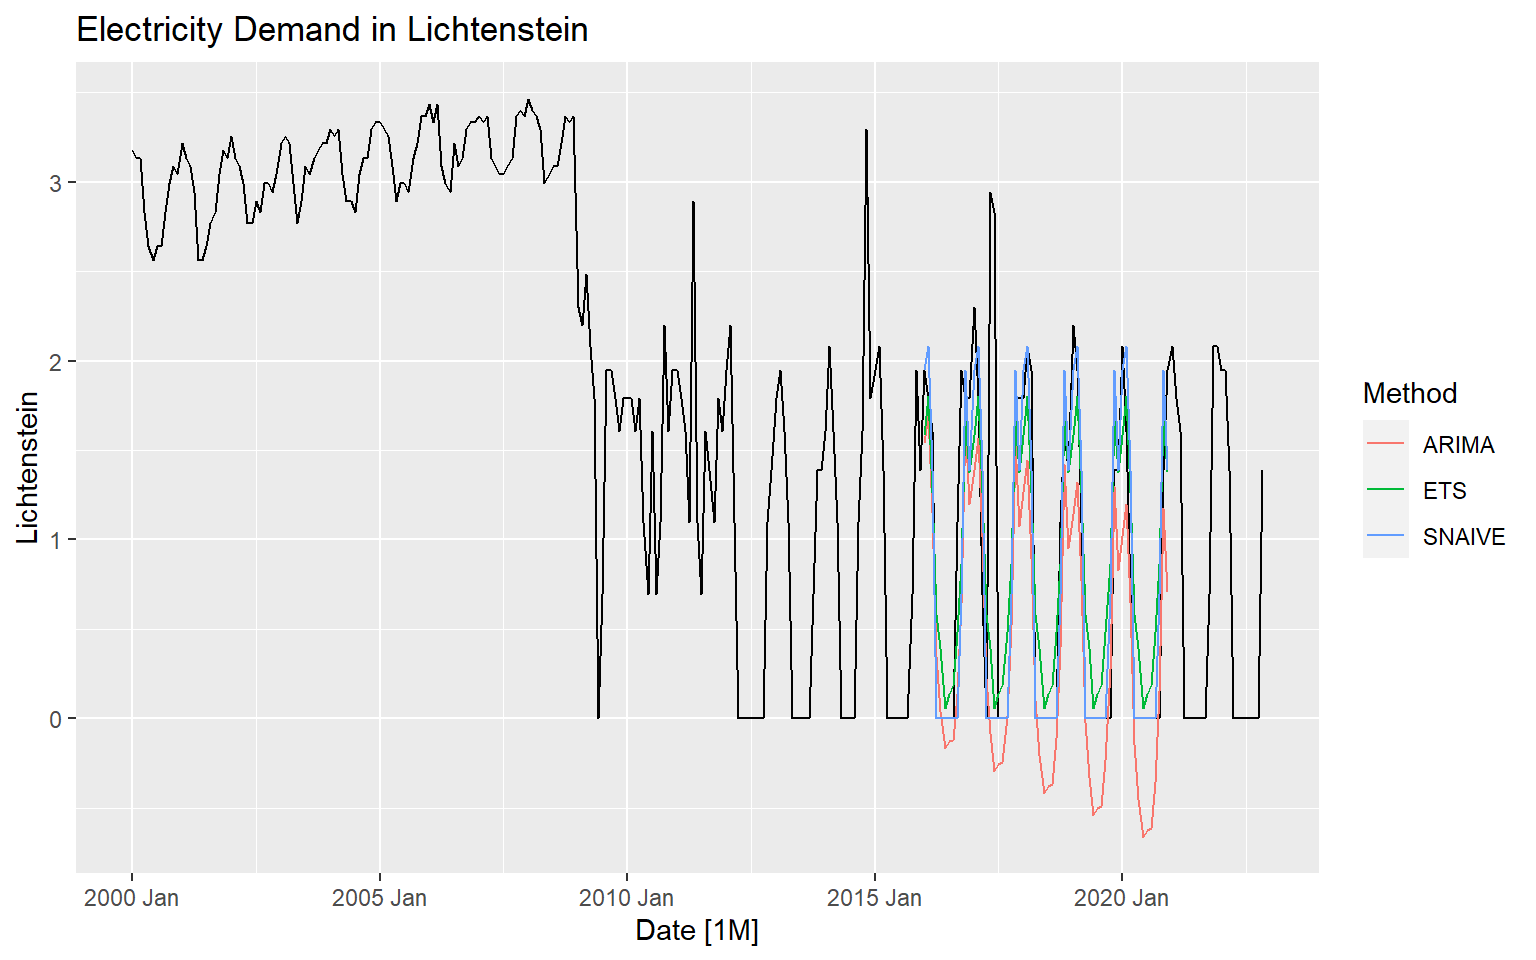
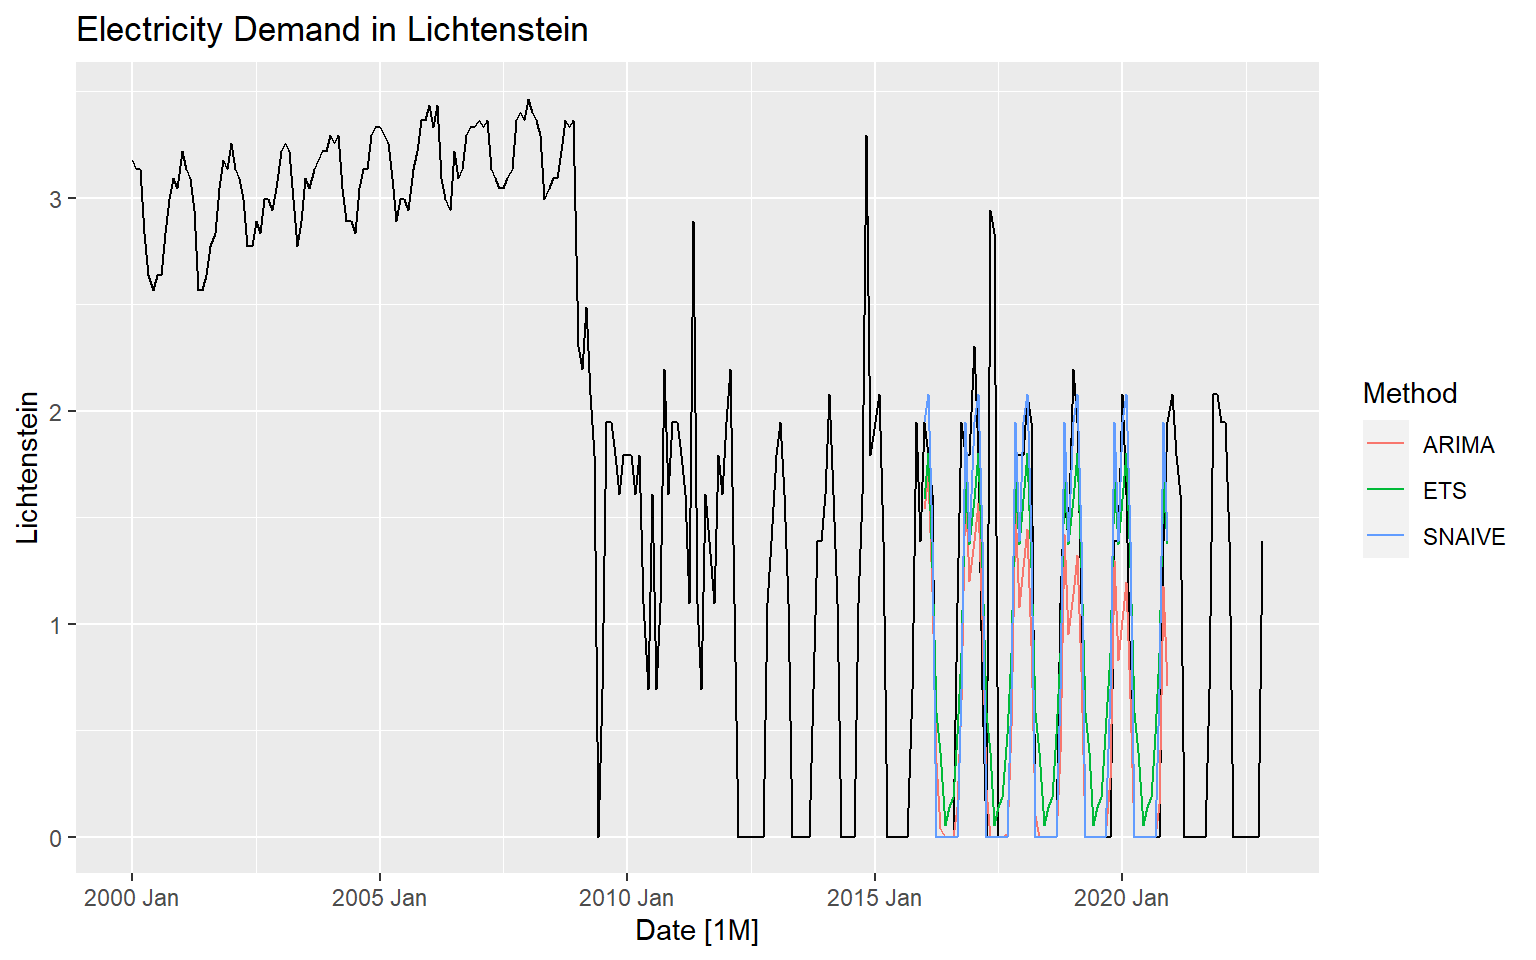
blabla

diff --git a/main.html b/main.html
@@ -201,9 +201,6 @@
     <h2><a href="#content">Forecasting Project 1 - Group 7</a></h2>
     <div id="toc">
       <ul>
-      <li><a href="#things-that-need-to-be-done"
-      id="toc-things-that-need-to-be-done">THINGS THAT NEED TO BE
-      DONE</a></li>
       <li><a href="#introduction" id="toc-introduction">1.
       Introduction</a></li>
       <li><a href="#data-processing" id="toc-data-processing">2. Data
@@ -288,13 +285,6 @@ Khryst Amina Ivan
    
 <!-- Don't indent these lines or it will mess pre blocks indentation --> 
 <div id="main">
-<div id="things-that-need-to-be-done" class="section level1">
-<h1>THINGS THAT NEED TO BE DONE</h1>
-<ul>
-<li>In the forecast we show only the final model chosen, why show
-lichtenstein 5.5.1 + 5.5.2?</li>
-</ul>
-</div>
 <div id="introduction" class="section level1">
 <h1>1. Introduction</h1>
 <p>This project is a forecasting analysis for the electricity exports
@@ -305,8 +295,8 @@ performance metrics) and have created forecasts and CI’s for each
 country as well as the total. In the final report you are now reading,
 only the most important information is included, and whatever was deemed
 unnecessary for the report you can find in our code files/appendix.</p>
-<p>The forecasting models used in this project are S-Naive, S-ARIMA, ETS
-and a variant of ARIMA piece-wise for a specific country.</p>
+<p>The forecasting models used in this project are S-Naive, S-ARIMA and
+ETS.</p>
 </div>
 <div id="data-processing" class="section level1">
 <h1>2. Data Processing</h1>
@@ -333,9 +323,9 @@ amplitude of the seasonality seemed to increase towards the most recent
 years. Based on this, we decided to do a seasonal/trend decomposition
 for each country to further analyze this.</p>
 <p>Furthermore, for Lichtenstein, we noticed a huge drop in exports
-after 2008-2009, which indicated that we should try different models
-like the piece-wise model to separate the differences in trend over
-time.</p>
+after 2008-2009, which can not be explain by the historical data. In
+order to handle it, we use different approachs such as splitting the
+data or implementing piece wise model.</p>
 </div>
 <div id="seasonal-sub-series-plots" class="section level2">
 <h2>3.2 Seasonal Sub-series plots</h2>
@@ -457,9 +447,10 @@ accurately.</p>
 <div id="austria" class="section level3">
 <h3><strong>Austria</strong></h3>
 <p>Austria trend undergoes a huge increase during the period 2018-2021,
-follow by a drastic drop which are not explainable by historical data
-and strongly suggest that it is affected by a covariate. Seasonality is
-constant and stable over time during the whole period.</p>
+follow by a significant drop which are not explainable by historical
+data and strongly suggest that it is affected by a covariate.
+Seasonality is constant and stable over time during the whole
+period.</p>
 <div class="sourceCode" id="cb6"><pre class="sourceCode r"><code class="sourceCode r"><span id="cb6-1"><a href="#cb6-1" tabindex="-1"></a>data_elec <span class="sc">%&gt;%</span></span>
 <span id="cb6-2"><a href="#cb6-2" tabindex="-1"></a>  <span class="fu">model</span>(<span class="fu">STL</span>(Austria <span class="sc">~</span> <span class="fu">trend</span>(<span class="at">window =</span> <span class="dv">7</span>) <span class="sc">+</span> <span class="fu">season</span>(<span class="at">window =</span> <span class="st">&quot;periodic&quot;</span>),</span>
 <span id="cb6-3"><a href="#cb6-3" tabindex="-1"></a>    <span class="at">robust =</span> <span class="cn">TRUE</span>)) <span class="sc">%&gt;%</span></span>
@@ -514,7 +505,7 @@ since the p-value is larger than our significance level of 5%, we have
 to difference or log the Lichtenstein data before using some models.</p>
 <div id="germany-1" class="section level3">
 <h3><strong>Germany</strong></h3>
-<p>The test statistic was -6.0768. The p-value of the test was 0.01,
+<p>The test statistic was -6.3865. The p-value of the test was 0.01,
 which indicates strong evidence to reject the null hypothesis of
 non-stationarity at <code>alpha = 0.05</code>. Thus Germany data is a
 stationary time series.</p>
@@ -530,8 +521,8 @@ stationary time series.</p>
 </div>
 <div id="france-1" class="section level3">
 <h3><strong>France</strong></h3>
-<p>The test statistic was -4.6123 The p-value of the test was 0.01,
-which indicates strong evidence to reject the null hypothesis of
+<p>The test statistic was -5.671 The p-value of the test was 0.01, which
+indicates strong evidence to reject the null hypothesis of
 non-stationarity at <code>alpha = 0.05</code>. Thus France data is a
 stationary time series.</p>
 <pre><code>## 
@@ -543,7 +534,7 @@ stationary time series.</p>
 </div>
 <div id="italy-1" class="section level3">
 <h3><strong>Italy</strong></h3>
-<p>The test statistic was -6.8897 The p-value of the test was 0.01. Thus
+<p>The test statistic was -6.1852 The p-value of the test was 0.01. Thus
 Italy data is a stationary time series.</p>
 <pre><code>## 
 ##  Augmented Dickey-Fuller Test
@@ -554,7 +545,7 @@ Italy data is a stationary time series.</p>
 </div>
 <div id="austria-1" class="section level3">
 <h3><strong>Austria</strong></h3>
-<p>The test statistic was -3.7273 The p-value of the test was 0.02443,
+<p>The test statistic was -3.6792 The p-value of the test was 0.02595,
 which indicates strong evidence to reject the null hypothesis of
 non-stationarity at <code>alpha = 0.05</code>. Thus Austria data is a
 stationary time series.</p>
@@ -567,8 +558,8 @@ stationary time series.</p>
 </div>
 <div id="lichtenstein-1" class="section level3">
 <h3><strong>Lichtenstein</strong></h3>
-<p>The test statistic was -6.5052 The p-value of the test was 0.01. Thus
-Lichtenstein data is a stationary time series.</p>
+<p>The test statistic was -3.0063. The p-value of the test was 0.1521.
+Thus Lichtenstein data is a NON stationary time series.</p>
 <pre><code>## 
 ##  Augmented Dickey-Fuller Test
 ## 
@@ -578,8 +569,8 @@ Lichtenstein data is a stationary time series.</p>
 </div>
 <div id="total-1" class="section level3">
 <h3><strong>Total</strong></h3>
-<p>Finally, The test statistic was -4.0009 The p-value of the test was
-0.01103. Thus Total data is a stationary time series.</p>
+<p>Finally, The test statistic was -4.8658 The p-value of the test was
+0.01. Thus Total data is a stationary time series.</p>
 <pre><code>## 
 ##  Augmented Dickey-Fuller Test
 ## 
@@ -1597,13 +1588,12 @@ time period that we have train our data, but it is important to note
 that it has some limitations. Indeed, it assumes that historical
 patterns will repeat exactly in the future, which may not always hold.
 The S-Naive method may not account for underlying factors or trends that
-could impact future outcomes. Therefore, there is an increased risk of
-inaccurate forecasts if the method is blindly applied without
-considering other relevant factors. ETS could be great models based on a
-trade off between forecasting error and complexity of the model. ETS
-model has the third lowest RMSE and second lowest MAE which makes him a
-good candidate. In order to select a model, we can analyse residuals of
-those models</p>
+could impact future outcomes. Thus, there is an increased risk of
+inaccurate forecasts if the method is blindly applied. ETS could be
+great models based on a trade off between forecasting error and model
+complexity. ETS model has the second lowest RMSE and MAE which makes him
+a good candidate. In order to select a model, we can analyse residuals
+of those models</p>
 <table class=" lightable-paper" style="font-family: &quot;Arial Narrow&quot;, arial, helvetica, sans-serif; width: auto !important; margin-left: auto; margin-right: auto;">
 <thead>
 <tr>
@@ -1738,20 +1728,20 @@ NaN
 </tr>
 </tbody>
 </table>
-<div class="sourceCode" id="cb60"><pre class="sourceCode r"><code class="sourceCode r"><span id="cb60-1"><a href="#cb60-1" tabindex="-1"></a><span class="co">#report(data_fit_Licht_e)</span></span>
-<span id="cb60-2"><a href="#cb60-2" tabindex="-1"></a><span class="co">#report(data_fit_Licht_n)</span></span></code></pre></div>
+<div class="sourceCode" id="cb60"><pre class="sourceCode r"><code class="sourceCode r"><span id="cb60-1"><a href="#cb60-1" tabindex="-1"></a><span class="co">#report(data_fit_Licht_n)</span></span>
+<span id="cb60-2"><a href="#cb60-2" tabindex="-1"></a><span class="co">#report(data_fit_Licht_e)</span></span></code></pre></div>
 </div>
 <div id="residuals-4" class="section level3">
 <h3><strong>Residuals</strong></h3>
 <p>It is interesting to examine any outliers or extreme values in the
 residuals. The ACF analysis for SNaive shows Positive correlations
-between the ts and its lags. In opposite ETS model shows that there’s no
-correlation between thoses values. Thus, each observation in the ts can
-be considered unrelated to the previous values. Consequently,
-Lichtenstein ts might need covariate to forecast and analyse it
-adequately. Concerning the residual, it should ideally appear random, in
-our case residuals are chinked around zero for both models (SNaive &amp;
-ETS), thus those might shows autocorrelation.</p>
+between the ts and its lags. The result shows that there’s correlation
+between thoses values. Thus, each observation in the ts can be
+considered related to the previous values. Consequently, Lichtenstein ts
+might need covariate to forecast and analyse it adequately. Concerning
+the residual, it should ideally appear random, in our case residuals are
+chinked around zero for SNaive model, thus those might shows
+autocorrelation.</p>
 <p><img src="main_files/figure-html/unnamed-chunk-47-1.png" width="768" /></p>
 </div>
 </div>
@@ -3518,6 +3508,9 @@ Total
 <p>Below is the final table containing <code>Month,</code> point
 forecast <code>PF,</code> 90% lower and upper confidence levels interval
 forecast <code>CI,</code> and <code>Country.</code></p>
+<p>For Lichtenstein, since we logged the data to make the forecasts
+earlier, we have to use its inverse function (exponent) to bring the
+values back to their original magnitude.</p>
 <div class="sourceCode" id="cb101"><pre
 class="sourceCode r"><code class="sourceCode r"><span id="cb101-1"><a href="#cb101-1" tabindex="-1"></a>final_fc <span class="ot">&lt;-</span> <span class="fu">bind_rows</span>(forecast_table_germany_e, forecast_table_italy_a, forecast_table_france_e, forecast_table_austria_e,forecast_table_Lichtenstein_n, forecast_table_total_a)</span>
 <span id="cb101-2"><a href="#cb101-2" tabindex="-1"></a></span>
@@ -3538,25 +3531,45 @@ class="sourceCode r"><code class="sourceCode r"><span id="cb101-1"><a href="#cb1
 <span id="cb101-17"><a href="#cb101-17" tabindex="-1"></a>upper_bound <span class="ot">&lt;-</span> <span class="fu">as.numeric</span>(upper_str_fc)</span>
 <span id="cb101-18"><a href="#cb101-18" tabindex="-1"></a></span>
 <span id="cb101-19"><a href="#cb101-19" tabindex="-1"></a><span class="co"># Creating the data frame</span></span>
-<span id="cb101-20"><a href="#cb101-20" tabindex="-1"></a>Correct_final_fc <span class="ot">&lt;-</span> <span class="fu">data.frame</span>(<span class="st">&quot;Coutry&quot;</span> <span class="ot">=</span> final_fc<span class="sc">$</span>Country,</span>
+<span id="cb101-20"><a href="#cb101-20" tabindex="-1"></a>Correct_final_fc <span class="ot">&lt;-</span> <span class="fu">data.frame</span>(<span class="st">&quot;Country&quot;</span> <span class="ot">=</span> final_fc<span class="sc">$</span>Country,</span>
 <span id="cb101-21"><a href="#cb101-21" tabindex="-1"></a>                             <span class="st">&quot;Month&quot;</span> <span class="ot">=</span> final_fc<span class="sc">$</span>Month,</span>
 <span id="cb101-22"><a href="#cb101-22" tabindex="-1"></a>                             <span class="st">&quot;Point Forecast&quot;</span> <span class="ot">=</span> final_fc<span class="sc">$</span>PF,</span>
 <span id="cb101-23"><a href="#cb101-23" tabindex="-1"></a>                             <span class="st">&quot;Lower Interval&quot;</span> <span class="ot">=</span> lower_bound,</span>
 <span id="cb101-24"><a href="#cb101-24" tabindex="-1"></a>                             <span class="st">&quot;Upper Interval&quot;</span> <span class="ot">=</span> upper_bound)</span>
 <span id="cb101-25"><a href="#cb101-25" tabindex="-1"></a></span>
-<span id="cb101-26"><a href="#cb101-26" tabindex="-1"></a><span class="co"># Printing the adjusted output</span></span>
-<span id="cb101-27"><a href="#cb101-27" tabindex="-1"></a><span class="co">#print(Correct_final_fc)</span></span>
-<span id="cb101-28"><a href="#cb101-28" tabindex="-1"></a></span>
-<span id="cb101-29"><a href="#cb101-29" tabindex="-1"></a><span class="fu">kbl</span>(<span class="fu">cbind</span>(Correct_final_fc)) <span class="sc">%&gt;%</span></span>
-<span id="cb101-30"><a href="#cb101-30" tabindex="-1"></a>  <span class="fu">kable_paper</span>() <span class="sc">%&gt;%</span></span>
-<span id="cb101-31"><a href="#cb101-31" tabindex="-1"></a>  <span class="fu">scroll_box</span>(<span class="at">width =</span> <span class="st">&quot;100%&quot;</span>, <span class="at">height =</span> <span class="st">&quot;500px&quot;</span>)</span></code></pre></div>
+<span id="cb101-26"><a href="#cb101-26" tabindex="-1"></a><span class="co">#Correct_final_fc &lt;- Correct_final_fc %&gt;%</span></span>
+<span id="cb101-27"><a href="#cb101-27" tabindex="-1"></a><span class="co">#  mutate(</span></span>
+<span id="cb101-28"><a href="#cb101-28" tabindex="-1"></a><span class="co">#    Point.Forecast = ifelse(Country == &quot;Lichtenstein&quot;, exp(Point.Forecast), Point.Forecast),</span></span>
+<span id="cb101-29"><a href="#cb101-29" tabindex="-1"></a><span class="co">#    Lower.Interval = ifelse(Country == &quot;Lichtenstein&quot;, exp(Lower.Interval), Lower.Interval),</span></span>
+<span id="cb101-30"><a href="#cb101-30" tabindex="-1"></a><span class="co">#    Upper.Interval = ifelse(Country == &quot;Lichtenstein&quot;, exp(Upper.Interval), Upper.Interval)</span></span>
+<span id="cb101-31"><a href="#cb101-31" tabindex="-1"></a><span class="co"># )</span></span>
+<span id="cb101-32"><a href="#cb101-32" tabindex="-1"></a></span>
+<span id="cb101-33"><a href="#cb101-33" tabindex="-1"></a>Correct_final_fc <span class="ot">&lt;-</span> Correct_final_fc <span class="sc">%&gt;%</span></span>
+<span id="cb101-34"><a href="#cb101-34" tabindex="-1"></a>  <span class="fu">mutate</span>(</span>
+<span id="cb101-35"><a href="#cb101-35" tabindex="-1"></a>    <span class="at">Point.Forecast =</span> <span class="fu">ifelse</span>(Country <span class="sc">==</span> <span class="st">&quot;Lichtenstein&quot;</span> <span class="sc">&amp;</span> Point.Forecast <span class="sc">!=</span> <span class="dv">0</span>, <span class="fu">exp</span>(Point.Forecast), Point.Forecast),</span>
+<span id="cb101-36"><a href="#cb101-36" tabindex="-1"></a>    <span class="at">Lower.Interval =</span> <span class="fu">ifelse</span>(Country <span class="sc">==</span> <span class="st">&quot;Lichtenstein&quot;</span> <span class="sc">&amp;</span> Point.Forecast <span class="sc">!=</span> <span class="dv">0</span>, <span class="fu">exp</span>(Lower.Interval), Lower.Interval),</span>
+<span id="cb101-37"><a href="#cb101-37" tabindex="-1"></a>    <span class="at">Upper.Interval =</span> <span class="fu">ifelse</span>(Country <span class="sc">==</span> <span class="st">&quot;Lichtenstein&quot;</span> <span class="sc">&amp;</span> Point.Forecast <span class="sc">!=</span> <span class="dv">0</span>, <span class="fu">exp</span>(Upper.Interval), Upper.Interval)</span>
+<span id="cb101-38"><a href="#cb101-38" tabindex="-1"></a>  )</span>
+<span id="cb101-39"><a href="#cb101-39" tabindex="-1"></a></span>
+<span id="cb101-40"><a href="#cb101-40" tabindex="-1"></a></span>
+<span id="cb101-41"><a href="#cb101-41" tabindex="-1"></a><span class="co">#Rounding the values again </span></span>
+<span id="cb101-42"><a href="#cb101-42" tabindex="-1"></a>Correct_final_fc<span class="sc">$</span>Point.Forecast <span class="ot">&lt;-</span> <span class="fu">round</span>(Correct_final_fc<span class="sc">$</span>Point.Forecast)</span>
+<span id="cb101-43"><a href="#cb101-43" tabindex="-1"></a>Correct_final_fc<span class="sc">$</span>Lower.Interval <span class="ot">&lt;-</span> <span class="fu">round</span>(Correct_final_fc<span class="sc">$</span>Lower.Interval)</span>
+<span id="cb101-44"><a href="#cb101-44" tabindex="-1"></a>Correct_final_fc<span class="sc">$</span>Upper.Interval <span class="ot">&lt;-</span> <span class="fu">round</span>(Correct_final_fc<span class="sc">$</span>Upper.Interval)</span>
+<span id="cb101-45"><a href="#cb101-45" tabindex="-1"></a></span>
+<span id="cb101-46"><a href="#cb101-46" tabindex="-1"></a><span class="co"># Printing the adjusted output</span></span>
+<span id="cb101-47"><a href="#cb101-47" tabindex="-1"></a><span class="co">#print(Correct_final_fc)</span></span>
+<span id="cb101-48"><a href="#cb101-48" tabindex="-1"></a></span>
+<span id="cb101-49"><a href="#cb101-49" tabindex="-1"></a><span class="fu">kbl</span>(<span class="fu">cbind</span>(Correct_final_fc)) <span class="sc">%&gt;%</span></span>
+<span id="cb101-50"><a href="#cb101-50" tabindex="-1"></a>  <span class="fu">kable_paper</span>() <span class="sc">%&gt;%</span></span>
+<span id="cb101-51"><a href="#cb101-51" tabindex="-1"></a>  <span class="fu">scroll_box</span>(<span class="at">width =</span> <span class="st">&quot;100%&quot;</span>, <span class="at">height =</span> <span class="st">&quot;500px&quot;</span>)</span></code></pre></div>
 <div
 style="border: 1px solid #ddd; padding: 0px; overflow-y: scroll; height:500px; overflow-x: scroll; width:100%; ">
 <table class=" lightable-paper" style="font-family: &quot;Arial Narrow&quot;, arial, helvetica, sans-serif; margin-left: auto; margin-right: auto;">
 <thead>
 <tr>
 <th style="text-align:left;position: sticky; top:0; background-color: #FFFFFF;">
-Coutry
+Country
 </th>
 <th style="text-align:left;position: sticky; top:0; background-color: #FFFFFF;">
 Month
@@ -4465,13 +4478,13 @@ Lichtenstein
 2022 Dec
 </td>
 <td style="text-align:right;">
-2
-</td>
-<td style="text-align:right;">
-1
+7
 </td>
 <td style="text-align:right;">
 3
+</td>
+<td style="text-align:right;">
+20
 </td>
 </tr>
 <tr>
@@ -4482,13 +4495,13 @@ Lichtenstein
 2023 Jan
 </td>
 <td style="text-align:right;">
-2
-</td>
-<td style="text-align:right;">
-1
+7
 </td>
 <td style="text-align:right;">
 3
+</td>
+<td style="text-align:right;">
+20
 </td>
 </tr>
 <tr>
@@ -4499,13 +4512,13 @@ Lichtenstein
 2023 Feb
 </td>
 <td style="text-align:right;">
-2
-</td>
-<td style="text-align:right;">
-1
+7
 </td>
 <td style="text-align:right;">
 3
+</td>
+<td style="text-align:right;">
+20
 </td>
 </tr>
 <tr>
@@ -4516,13 +4529,13 @@ Lichtenstein
 2023 Mar
 </td>
 <td style="text-align:right;">
+3
+</td>
+<td style="text-align:right;">
 1
 </td>
 <td style="text-align:right;">
-0
-</td>
-<td style="text-align:right;">
-3
+20
 </td>
 </tr>
 <tr>
@@ -4652,13 +4665,13 @@ Lichtenstein
 2023 Nov
 </td>
 <td style="text-align:right;">
+3
+</td>
+<td style="text-align:right;">
 1
 </td>
 <td style="text-align:right;">
-0
-</td>
-<td style="text-align:right;">
-3
+20
 </td>
 </tr>
 <tr>
@@ -4669,13 +4682,13 @@ Lichtenstein
 2023 Dec
 </td>
 <td style="text-align:right;">
-2
+7
 </td>
 <td style="text-align:right;">
-0
+1
 </td>
 <td style="text-align:right;">
-4
+55
 </td>
 </tr>
 <tr>
